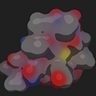
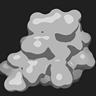
Add new thumbnail in toon materiafl, fix values in materials

diff --git a/src/gfx/materials.js b/src/gfx/materials.js
@@ -22,6 +22,7 @@ var materialList = [
       fog: true,
       depthWrite: true,
       transparent: false,
+      toonShading: false
     }
   }, {
     id: 'SF',
@@ -38,6 +39,7 @@ var materialList = [
       fog: true,
       depthWrite: true,
       transparent: false,
+      toonShading: false
     }
   }, {
     id: 'PL',
@@ -54,6 +56,7 @@ var materialList = [
       fog: true,
       depthWrite: true,
       transparent: false,
+      toonShading: false
     }
   }, {
     id: 'ME',
@@ -70,6 +73,7 @@ var materialList = [
       fog: true,
       depthWrite: true,
       transparent: false,
+      toonShading: false
     }
   }, {
     id: 'TR',
@@ -86,6 +90,7 @@ var materialList = [
       fog: true,
       depthWrite: true,
       transparent: true,
+      toonShading: false
     }
   }, {
     id: 'GL',
@@ -103,6 +108,7 @@ var materialList = [
       fog: true,
       depthWrite: true,
       transparent: true,
+      toonShading: false
     }
   }, {
     id: 'BA',
@@ -116,6 +122,7 @@ var materialList = [
       fog: false,
       depthWrite: false,
       transparent: false,
+      toonShading: false
     }
   }, {
     id: 'TN',
